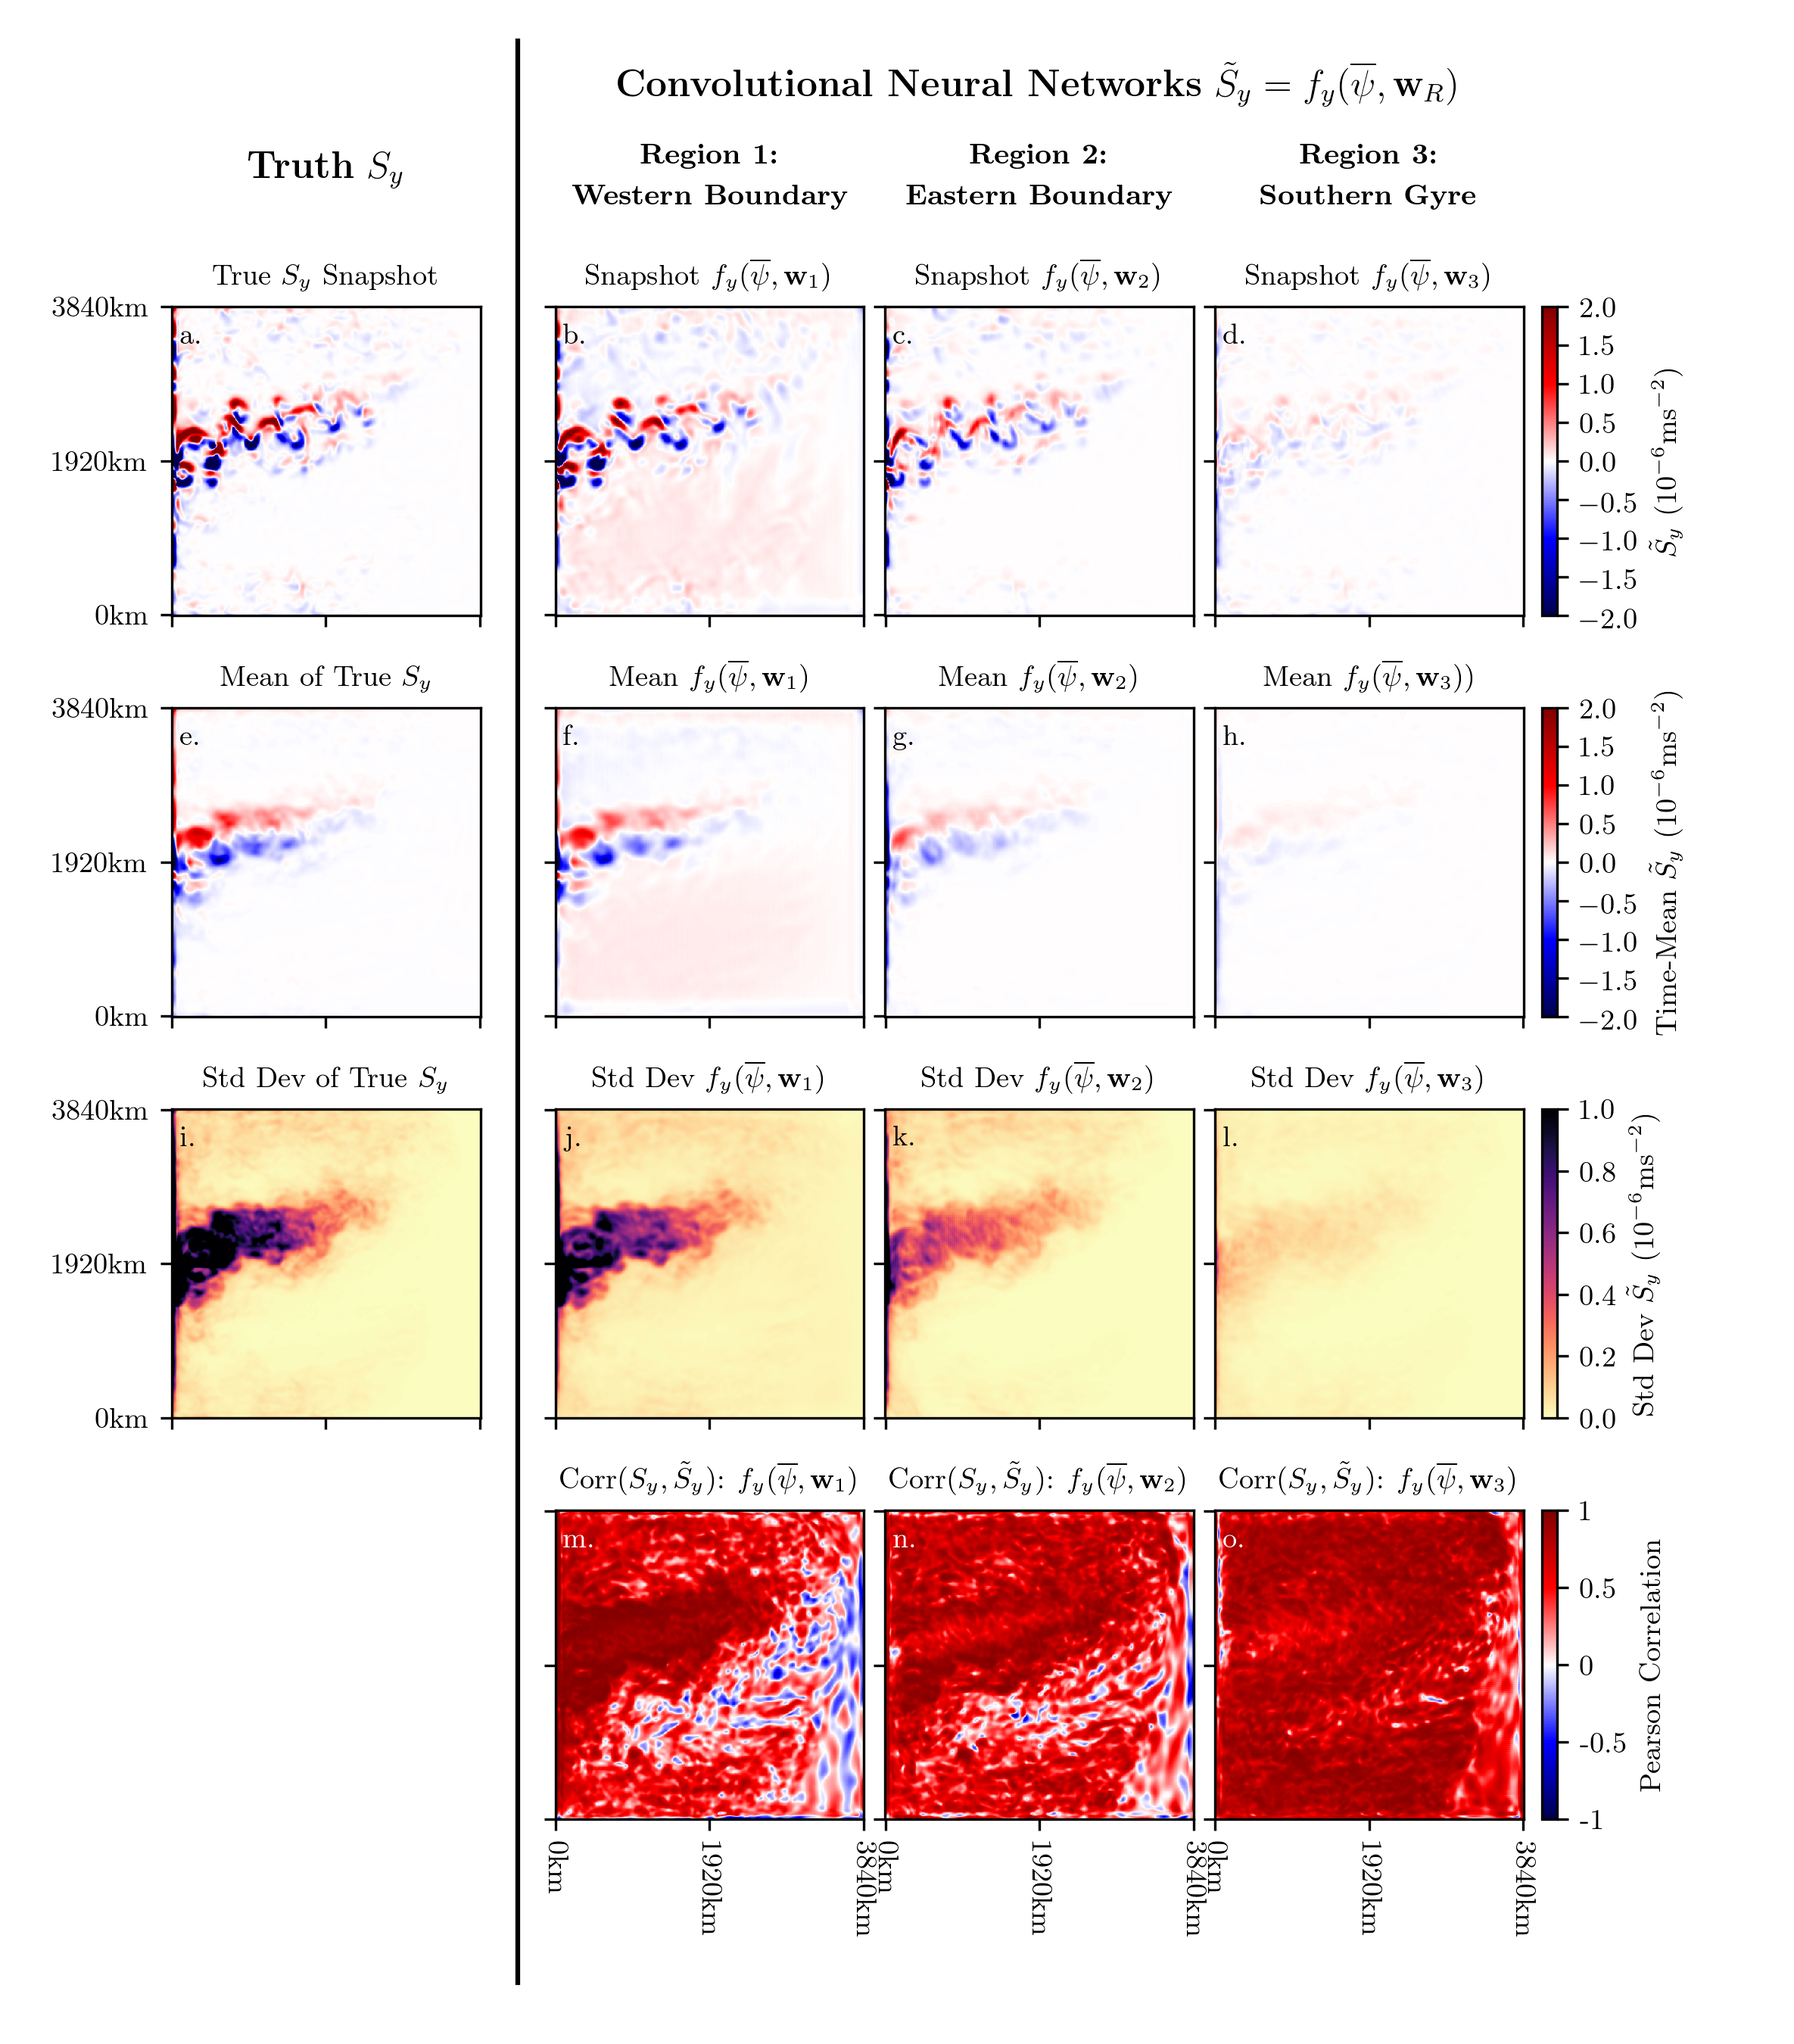
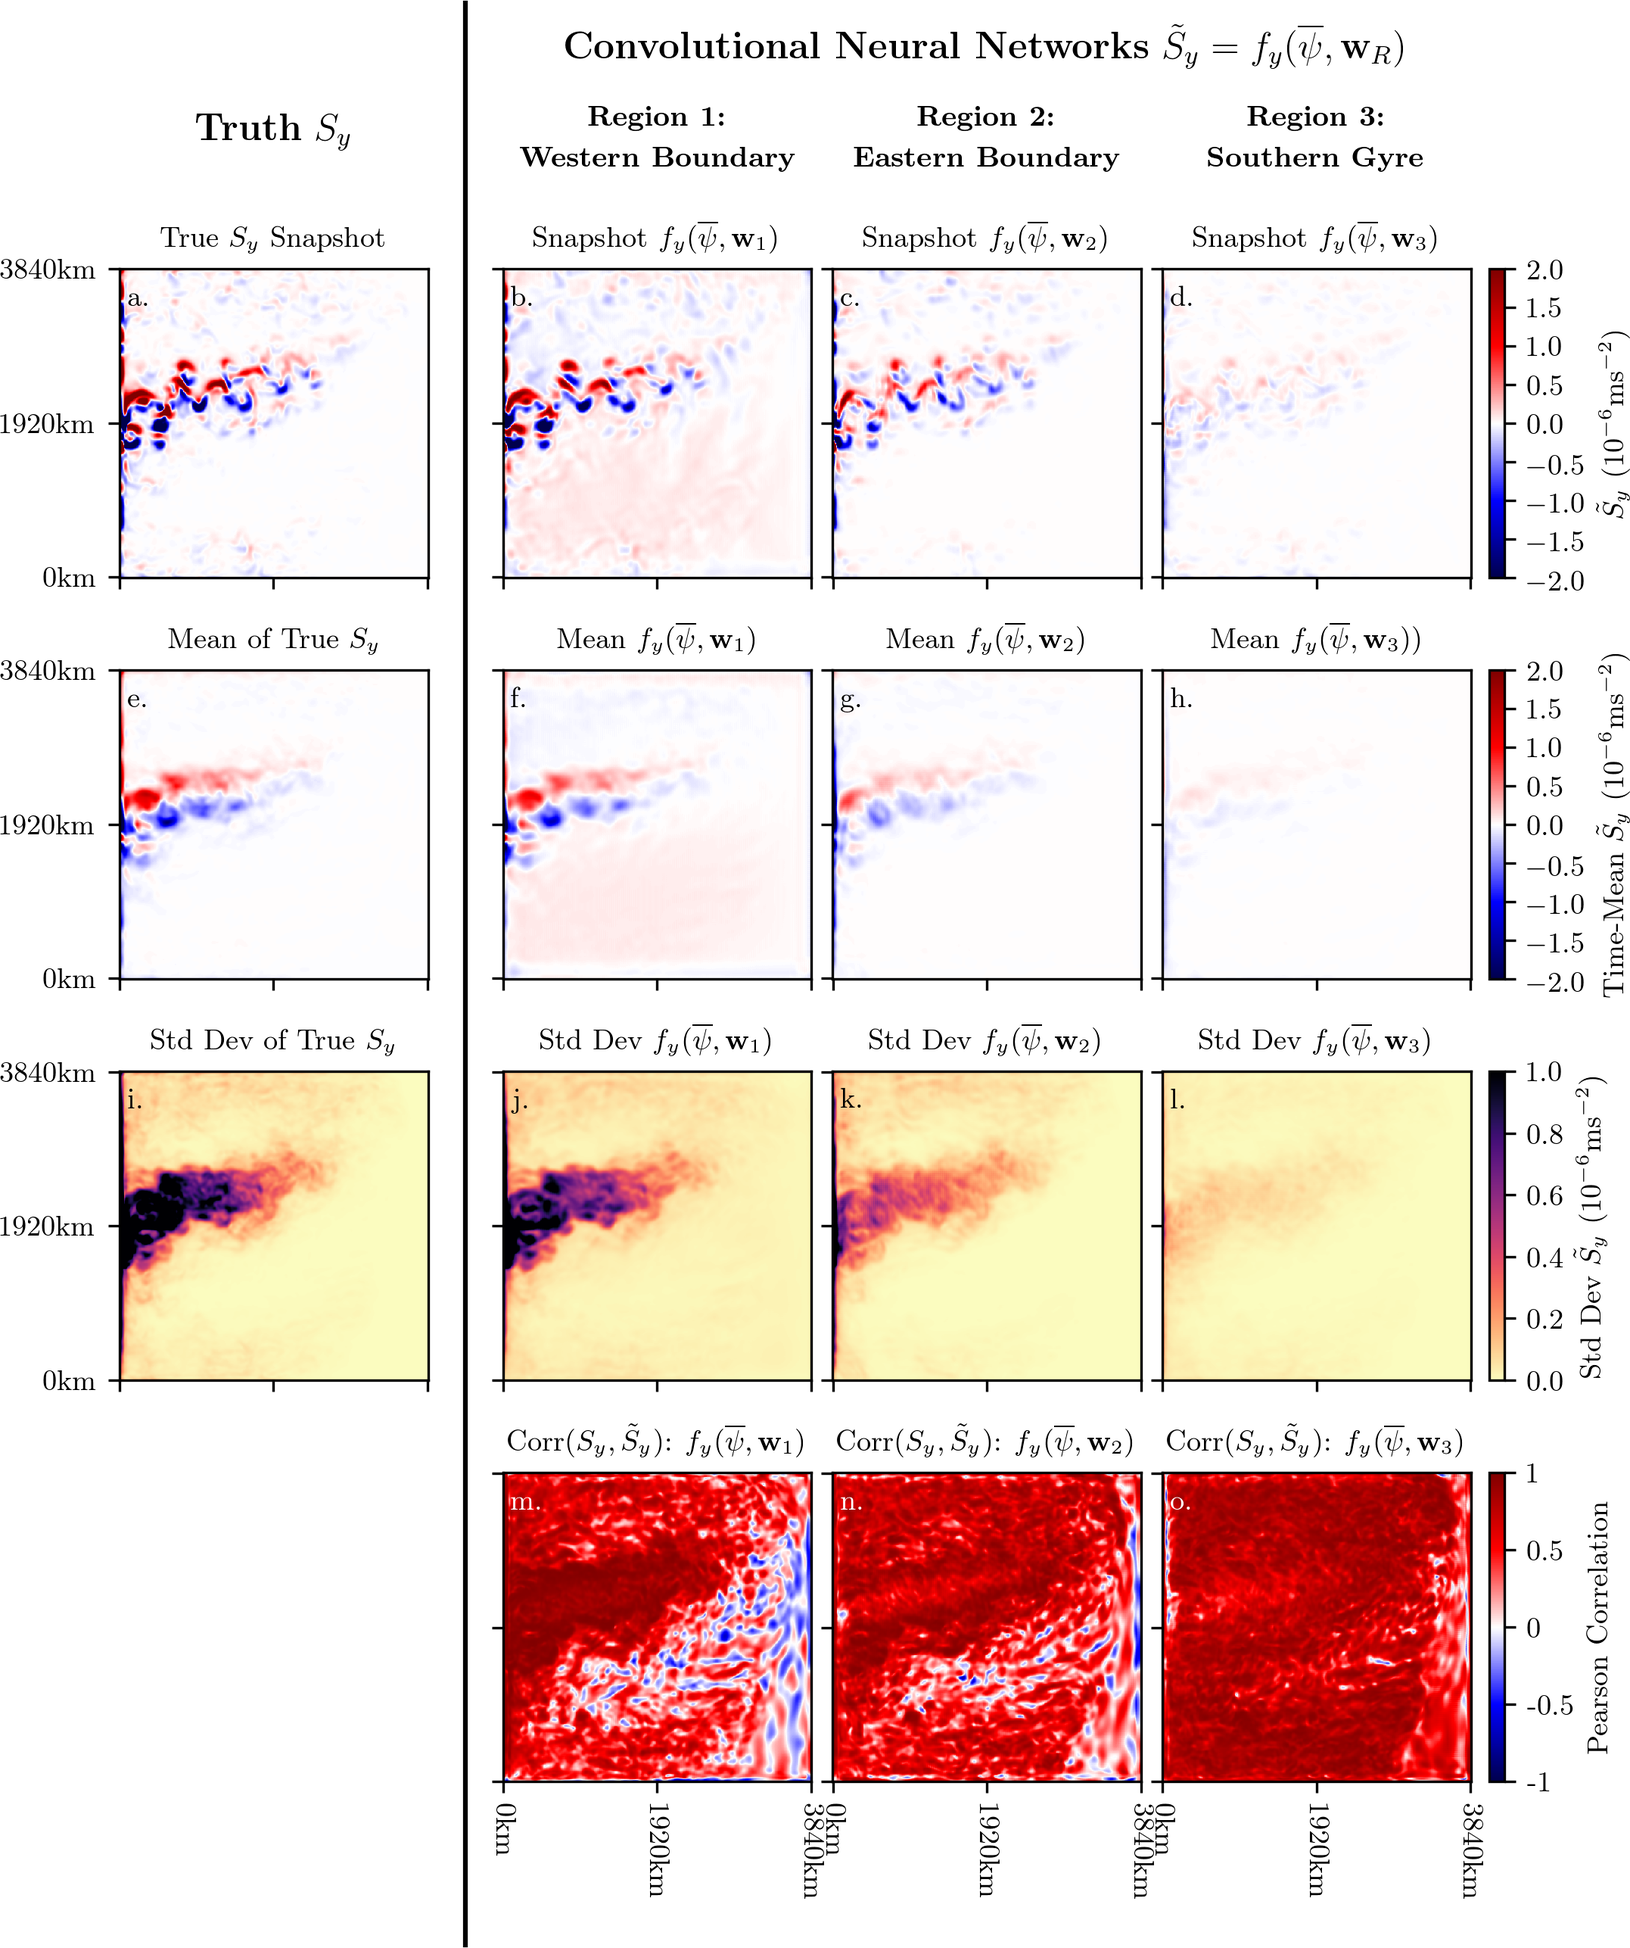
Update figures

diff --git a/figures/fig4_plotTimeSeries.py b/figures/fig4_plotTimeSeries.py
@@ -57,9 +57,9 @@ C = [ 'black', 'red', 'blue', 'gray' ]
 
 # Sx
 ax0.plot( t, np.squeeze( SxTrue[:,y0,x0] )*1e6, label='Truth', color=C[0], linewidth=2.5, ls='--' )
-ax0.plot( t, np.squeeze( SxPred1[:,y0,x0] )*1e6, label='CNN$_x$1', color=C[1], linewidth=1.5 )
-ax0.plot( t, np.squeeze( SxPred2[:,y0,x0] )*1e6, label='CNN$_x$2', color=C[2], linewidth=1.5 )
-ax0.plot( t, np.squeeze( SxPred3[:,y0,x0] )*1e6, label='CNN$_x$3', color=C[3], linewidth=1.5)
+ax0.plot( t, np.squeeze( SxPred1[:,y0,x0] )*1e6, label='$f_x(\overline{\psi},\mathbf{w}_1)$', color=C[1], linewidth=1.5 )
+ax0.plot( t, np.squeeze( SxPred2[:,y0,x0] )*1e6, label='$f_x(\overline{\psi},\mathbf{w}_2)$', color=C[2], linewidth=1.5 )
+ax0.plot( t, np.squeeze( SxPred3[:,y0,x0] )*1e6, label='$f_x(\overline{\psi},\mathbf{w}_3)$', color=C[3], linewidth=1.5)
 
 ax0.xaxis.grid( color=gridColor, lw=1 )
 ax0.set_title(r'$S_x$ and $\tilde{S}_x$ Time-Series (at $x=1920$km, $y=2400$km)', fontsize=12 )
@@ -72,9 +72,9 @@ ax0.text(3,1.32,'a.',fontsize=12)
 
 # Sy
 ax1.plot( t, np.squeeze( SyTrue[:,y0,x0] )*1e6, label='Truth', color=C[0], linewidth=2.5, ls='--' )
-ax1.plot( t, np.squeeze( SyPred1[:,y0,x0] )*1e6, label='CNN$_y$1', color=C[1], linewidth=1.5 )
-ax1.plot( t, np.squeeze( SyPred2[:,y0,x0] )*1e6, label='CNN$_y$2', color=C[2], linewidth=1.5 )
-ax1.plot( t, np.squeeze( SyPred3[:,y0,x0] )*1e6, label='CNN$_y$3', color=C[3], linewidth=1.5 )
+ax1.plot( t, np.squeeze( SyPred1[:,y0,x0] )*1e6, label='$f_y(\overline{\psi},\mathbf{w}_1)$', color=C[1], linewidth=1.5 )
+ax1.plot( t, np.squeeze( SyPred2[:,y0,x0] )*1e6, label='$f_y(\overline{\psi},\mathbf{w}_2)$', color=C[2], linewidth=1.5 )
+ax1.plot( t, np.squeeze( SyPred3[:,y0,x0] )*1e6, label='$f_y(\overline{\psi},\mathbf{w}_3)$', color=C[3], linewidth=1.5 )
 
 ax1.xaxis.grid( color=gridColor, lw=1 )
 ax1.set_title(r'$S_y$ and $\tilde{S}_y$ Time-Series (at $x=1920$km, $y=2400$km)', fontsize=12 )

diff --git a/figures/fig5_plotMomABC.py b/figures/fig5_plotMomABC.py
@@ -83,7 +83,7 @@ ax345.set_xticklabels( [] )
 ax345.xaxis.set_label_coords(0.5, -0.07)
 ax345.set_ylabel(r'Spatial-Mean $S_x$ or $\tilde{S}_x$ (10$^{-6}$ms$^{-2}$)', fontsize=9 )
 ax345.legend( shadow=True, loc=1, bbox_to_anchor=(1.2,1), facecolor=bgColor, fontsize=8  )
-ax345.text( 6, 0.0035, 'd.', fontsize=12 )
+ax345.text( 6, 0.025, 'd.', fontsize=12 )
 
 
 # V Momentum input
@@ -102,7 +102,7 @@ ax91011.xaxis.set_label_coords(0.5, -0.07)
 ax91011.set_xlabel('Day')
 ax91011.set_ylabel(r'Spatial-Mean $S_y$ or $\tilde{S}_y$ (10$^{-6}$ms$^{-2}$)', fontsize=9 )
 ax91011.legend( shadow=True, loc=1, bbox_to_anchor=(1.205,1), facecolor=bgColor, fontsize=8  )
-ax91011.text( 6, 0.014, 'h.', fontsize=12 )
+ax91011.text( 6, 0.025, 'h.', fontsize=12 )
 
 ##### STANDARD DEVIATIONS OF MOMENTUM-CONSERVING APPROACHES #####
 
